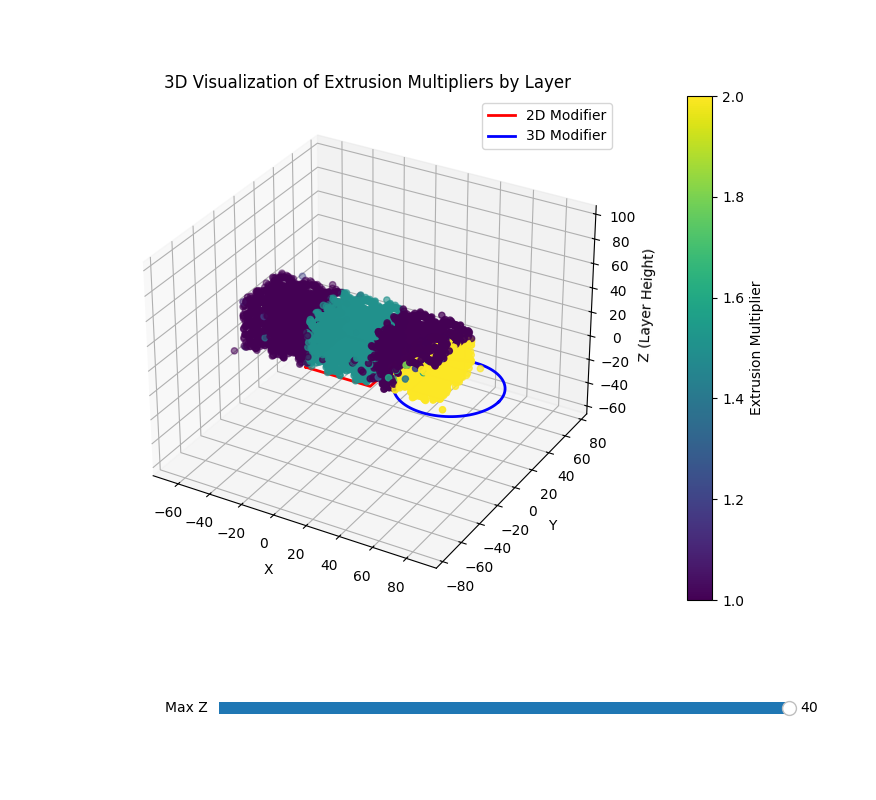
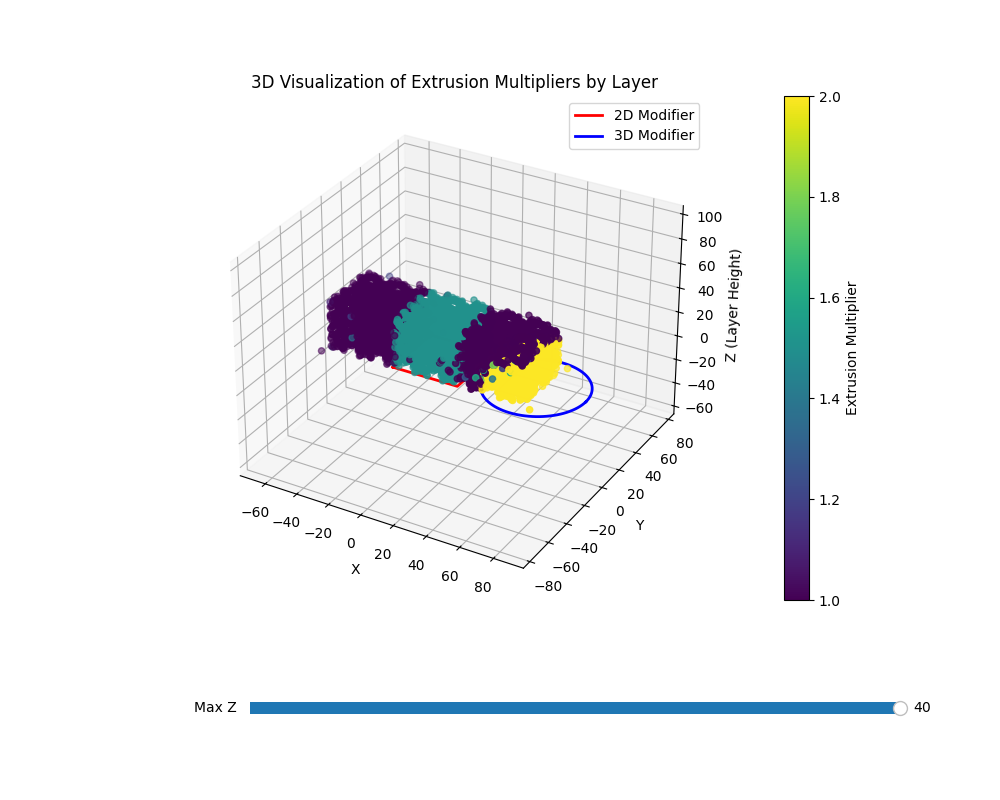
new

diff --git a/gcode_post_processor.py b/gcode_post_processor.py
@@ -12,6 +12,11 @@ import trimesh
 # --- FUNCTIONS TO LOAD MODIFIER GEOMETRY ---
 
 def load_modifier_polygon_from_stl_2d(stl_filename):
+    """
+    Load an STL file, project its vertices onto the XY plane,
+    and compute the convex hull.
+    Returns a Shapely Polygon.
+    """
     try:
         mesh = trimesh.load(stl_filename)
     except Exception as e:
@@ -22,6 +27,15 @@ def load_modifier_polygon_from_stl_2d(stl_filename):
     return polygon
 
 def load_modifier_mesh_3d(stl_filename):
+    """
+    Load an STL file and compute its full 3D geometry properties.
+    Returns a dictionary with:
+      - "mesh": the trimesh mesh,
+      - "vertices": NumPy array of vertices,
+      - "faces": NumPy array of faces,
+      - "centroid": (cx, cy, cz),
+      - "r_max": maximum Euclidean distance from the centroid.
+    """
     try:
         mesh = trimesh.load(stl_filename)
     except Exception as e:
@@ -43,14 +57,14 @@ pattern_y = re.compile(r'Y([-+]?[0-9]*\.?[0-9]+)')
 pattern_z = re.compile(r'Z([-+]?[0-9]*\.?[0-9]+)')
 pattern_e = re.compile(r'E([-+]?[0-9]*\.?[0-9]+)')
 
-input_file = "input.gcode"
-output_file = "output.gcode"
+input_file = "input.gcode"       # G-code generated by PrusaSlicer.
+output_file = "output.gcode"     # Modified output G-code.
 
 # --- MODIFIER DEFINITIONS ---
-# Set "modifier_type" to either "2D" or "3D"
+# Specify "modifier_type": "2D" or "3D". For 3D modifiers, you can optionally include "r_eff_scale" (default 1.0)
 modifier_defs = [
     {"filename": "modifier1.stl", "modifier_type": "2D", "center_multiplier": 1.5, "edge_multiplier": 1.5, "gradient_exponent": 1.0, "min_layer": 0.0},
-    {"filename": "modifier2.stl", "modifier_type": "3D", "center_multiplier": 2,   "edge_multiplier": 2,   "gradient_exponent": 2,   "min_layer": 0.0}
+    {"filename": "modifier2.stl", "modifier_type": "3D", "center_multiplier": 2, "edge_multiplier": 2, "gradient_exponent": 2, "min_layer": 0.0, "r_eff_scale": 1.0}
 ]
 
 # --- LOAD MODIFIERS ---
@@ -61,7 +75,7 @@ for mod_def in modifier_defs:
     if os.path.exists(mfile):
         if mod_type == "2D":
             polygon = load_modifier_polygon_from_stl_2d(mfile)
-            centroid = polygon.centroid
+            centroid = polygon.centroid  # 2D centroid (Point)
             r_max = max(centroid.distance(Point(v)) for v in polygon.exterior.coords)
             mod_params = {
                 "modifier_type": "2D",
@@ -104,6 +118,12 @@ for mod_def in modifier_defs:
 
 # --- FUNCTION TO COMPUTE MULTIPLIER FOR A SINGLE MODIFIER ---
 def compute_multiplier_for_modifier(x, y, z, mod):
+    """
+    For a given point (x, y, z) and a modifier dictionary, compute the modifier's multiplier.
+    For "2D" modifiers, use the XY distance from the 2D centroid.
+    For "3D" modifiers, compute the effective XY region based on the full 3D sphere.
+    Returns 1.0 if the point is not within the modifier's influence.
+    """
     if z < mod["min_layer"]:
         return 1.0
     if mod["modifier_type"] == "2D":
@@ -114,12 +134,17 @@ def compute_multiplier_for_modifier(x, y, z, mod):
         norm_base = mod["r_max"]
     elif mod["modifier_type"] == "3D":
         cx, cy, cz = mod["centroid_3d"]
-        # Use full 3D distance:
-        r3d = math.sqrt((x - cx)**2 + (y - cy)**2 + (z - cz)**2)
-        if r3d > mod["r_max"]:
+        # Only apply if z is within the vertical extent of the modifier.
+        if z < cz - mod["r_max"] or z > cz + mod["r_max"]:
             return 1.0
-        r = r3d
-        norm_base = mod["r_max"]
+        # Compute effective XY radius at this layer using an optional scale.
+        r_eff_scale = mod.get("r_eff_scale", 1.0)
+        r_eff = r_eff_scale * math.sqrt(max(0, mod["r_max"]**2 - (z - cz)**2))
+        d = math.sqrt((x - cx)**2 + (y - cy)**2)
+        if d > r_eff:
+            return 1.0
+        r = d
+        norm_base = r_eff
     else:
         return 1.0
     normalized = min(r / norm_base, 1.0) ** mod["gradient_exponent"]
@@ -160,7 +185,7 @@ def compute_effective_multiplier(start, end, z, num_samples=5):
         return 1.0
 
 # --- PROCESSING THE G-CODE (INTEGRATED APPROACH) ---
-positions_3d = []  
+positions_3d = []  # For visualization: (x, y, z, effective multiplier)
 new_E = 0.0
 last_E = 0.0
 last_x, last_y, last_z = None, None, 0
@@ -199,7 +224,7 @@ with open(input_file, "r") as fin, open(output_file, "w") as fout:
                     x, y = 0, 0
                     start_pt = Point(0, 0)
                 end_pt = Point(x, y)
-                z = last_z  
+                z = last_z
                 total_length = LineString([start_pt, end_pt]).length
                 if total_length < 1e-6:
                     m_val = compute_multiplier_multiple(x, y, z)
@@ -231,7 +256,7 @@ else:
     print(f"G-code Z range: {min(zs_all):.2f} to {max(zs_all):.2f}")
 
 # --- DOWNSAMPLING FOR VISUALIZATION ---
-max_points = 10000  
+max_points = 10000
 if len(positions_3d) > max_points:
     sample_rate = int(len(positions_3d) / max_points)
     positions_sampled = positions_3d[::sample_rate]
@@ -245,7 +270,6 @@ zs = np.array([pt[2] for pt in positions_sampled])
 multipliers = np.array([pt[3] for pt in positions_sampled])
 
 # --- 3D VISUALIZATION WITH SLIDER ---
-
 def set_axes_equal(ax):
     x_limits = ax.get_xlim3d()
     y_limits = ax.get_ylim3d()
@@ -280,7 +304,7 @@ for mod in modifiers:
         ax.plot(x_poly, y_poly, zs=z_ref, zdir="z", color="red", linewidth=2, label="2D Modifier")
     elif mod.get("modifier_type") == "3D":
         cx, cy, cz = mod["centroid_3d"]
-        # Compute effective XY circle at reference Z.
+        # Compute effective XY circle at the reference Z.
         if z_ref < cz - mod["r_max"] or z_ref > cz + mod["r_max"]:
             continue
         r_eff = math.sqrt(max(0, mod["r_max"]**2 - (z_ref - cz)**2))
